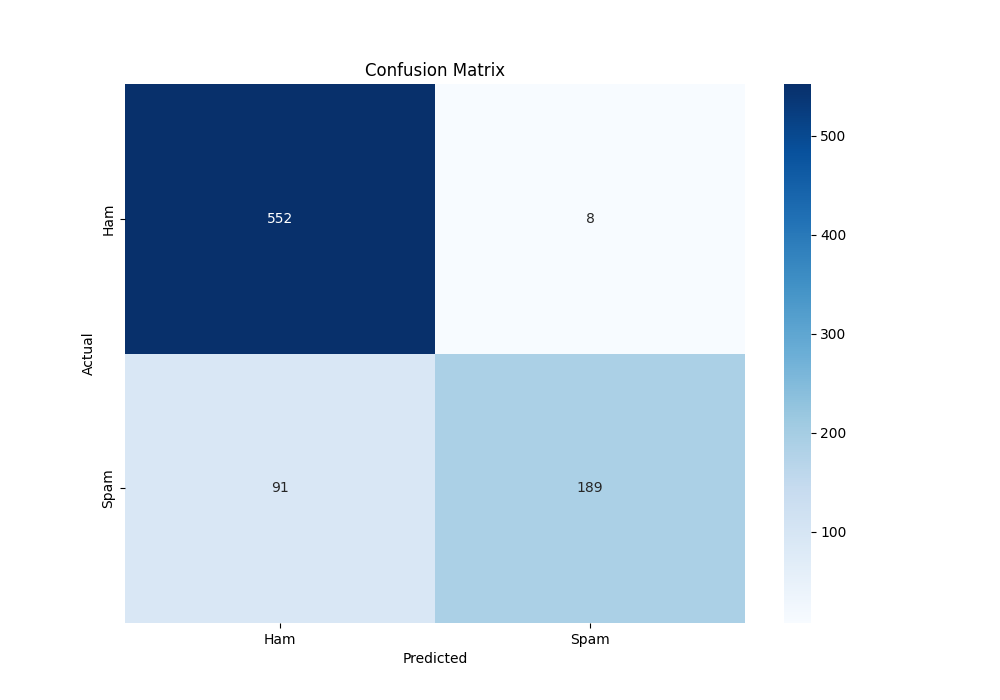
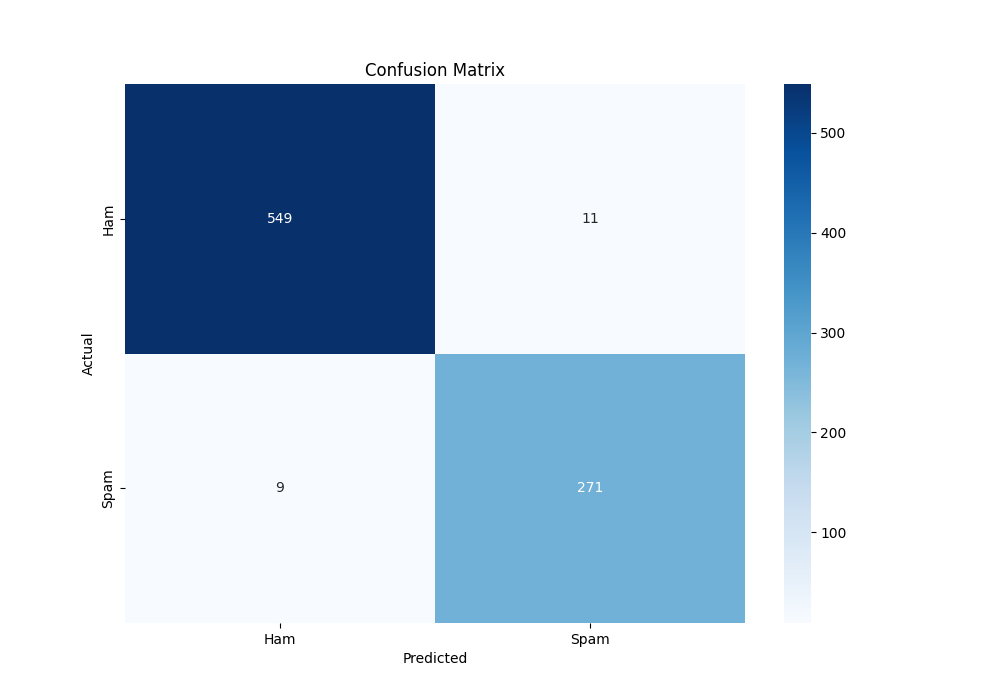
change model to random forest

diff --git a/main.py b/main.py
@@ -9,6 +9,17 @@ import seaborn as sns
 import matplotlib.pyplot as plt
 import flet as ft
 
+import os
+import pandas as pd
+from sklearn.feature_extraction.text import TfidfVectorizer
+from sklearn.model_selection import train_test_split
+from sklearn.ensemble import RandomForestClassifier
+from sklearn.metrics import accuracy_score, precision_score, recall_score
+from sklearn.metrics import confusion_matrix
+import seaborn as sns
+import matplotlib.pyplot as plt
+import flet as ft
+
 
 def read_files_from_directory(directory_path, label):
     """讀取指定目錄下所有檔案的內容，並為每個檔案分配標籤"""
@@ -48,14 +59,14 @@ tfidf_matrix = vectorizer.fit_transform(contents)
 # 使用分層抽樣分割訓練集和測試集
 X_train, X_test, y_train, y_test = train_test_split(tfidf_matrix, labels, test_size=0.2, stratify=labels, random_state=42)
 
-# 創建朴素貝葉斯分類器實體
-nb_classifier = MultinomialNB()
+# 創建隨機森林分類器實體
+rf_classifier = RandomForestClassifier(n_estimators=100, random_state=42)
 
 # 使用訓練集訓練模型
-nb_classifier.fit(X_train, y_train)
+rf_classifier.fit(X_train, y_train)
 
 # 使用測試集進行預測
-y_pred = nb_classifier.predict(X_test)
+y_pred = rf_classifier.predict(X_test)
 
 # 計算準確率
 accuracy = accuracy_score(y_test, y_pred)
@@ -94,13 +105,17 @@ def main(page: ft.Page):
             email_content.value = content
             email_content.update()
             check_button.disabled = False
+            result_text.value = ""
         else:
             selected_file.value = "未選擇文件"
             email_content.value = ""
             check_button.disabled = True
+            result_text.value = ""
+        # 更新所有相關元件
         selected_file.update()
         email_content.update()
         check_button.update()
+        result_text.update()
 
     pick_files_dialog = ft.FilePicker(on_result=pick_files_result)
     selected_file = ft.Text(size=14, color=ft.colors.BLUE)
@@ -123,10 +138,14 @@ def main(page: ft.Page):
             content = file.read()
 
         tfidf_vector = vectorizer.transform([content])
-        spam_prob = nb_classifier.predict_proba(tfidf_vector)[0][1]
+        prediction = rf_classifier.predict(tfidf_vector)[0]
 
-        result_text.value = f"垃圾郵件機率: {spam_prob:.2%}"
-        result_text.color = ft.colors.RED if spam_prob > 0.5 else ft.colors.GREEN
+        if prediction == 1:
+            result_text.value = "這是垃圾郵件"
+            result_text.color = ft.colors.RED
+        else:
+            result_text.value = "這不是垃圾郵件"
+            result_text.color = ft.colors.GREEN
         result_text.update()
 
     check_button = ft.ElevatedButton("檢查", on_click=check_spam, disabled=True)
